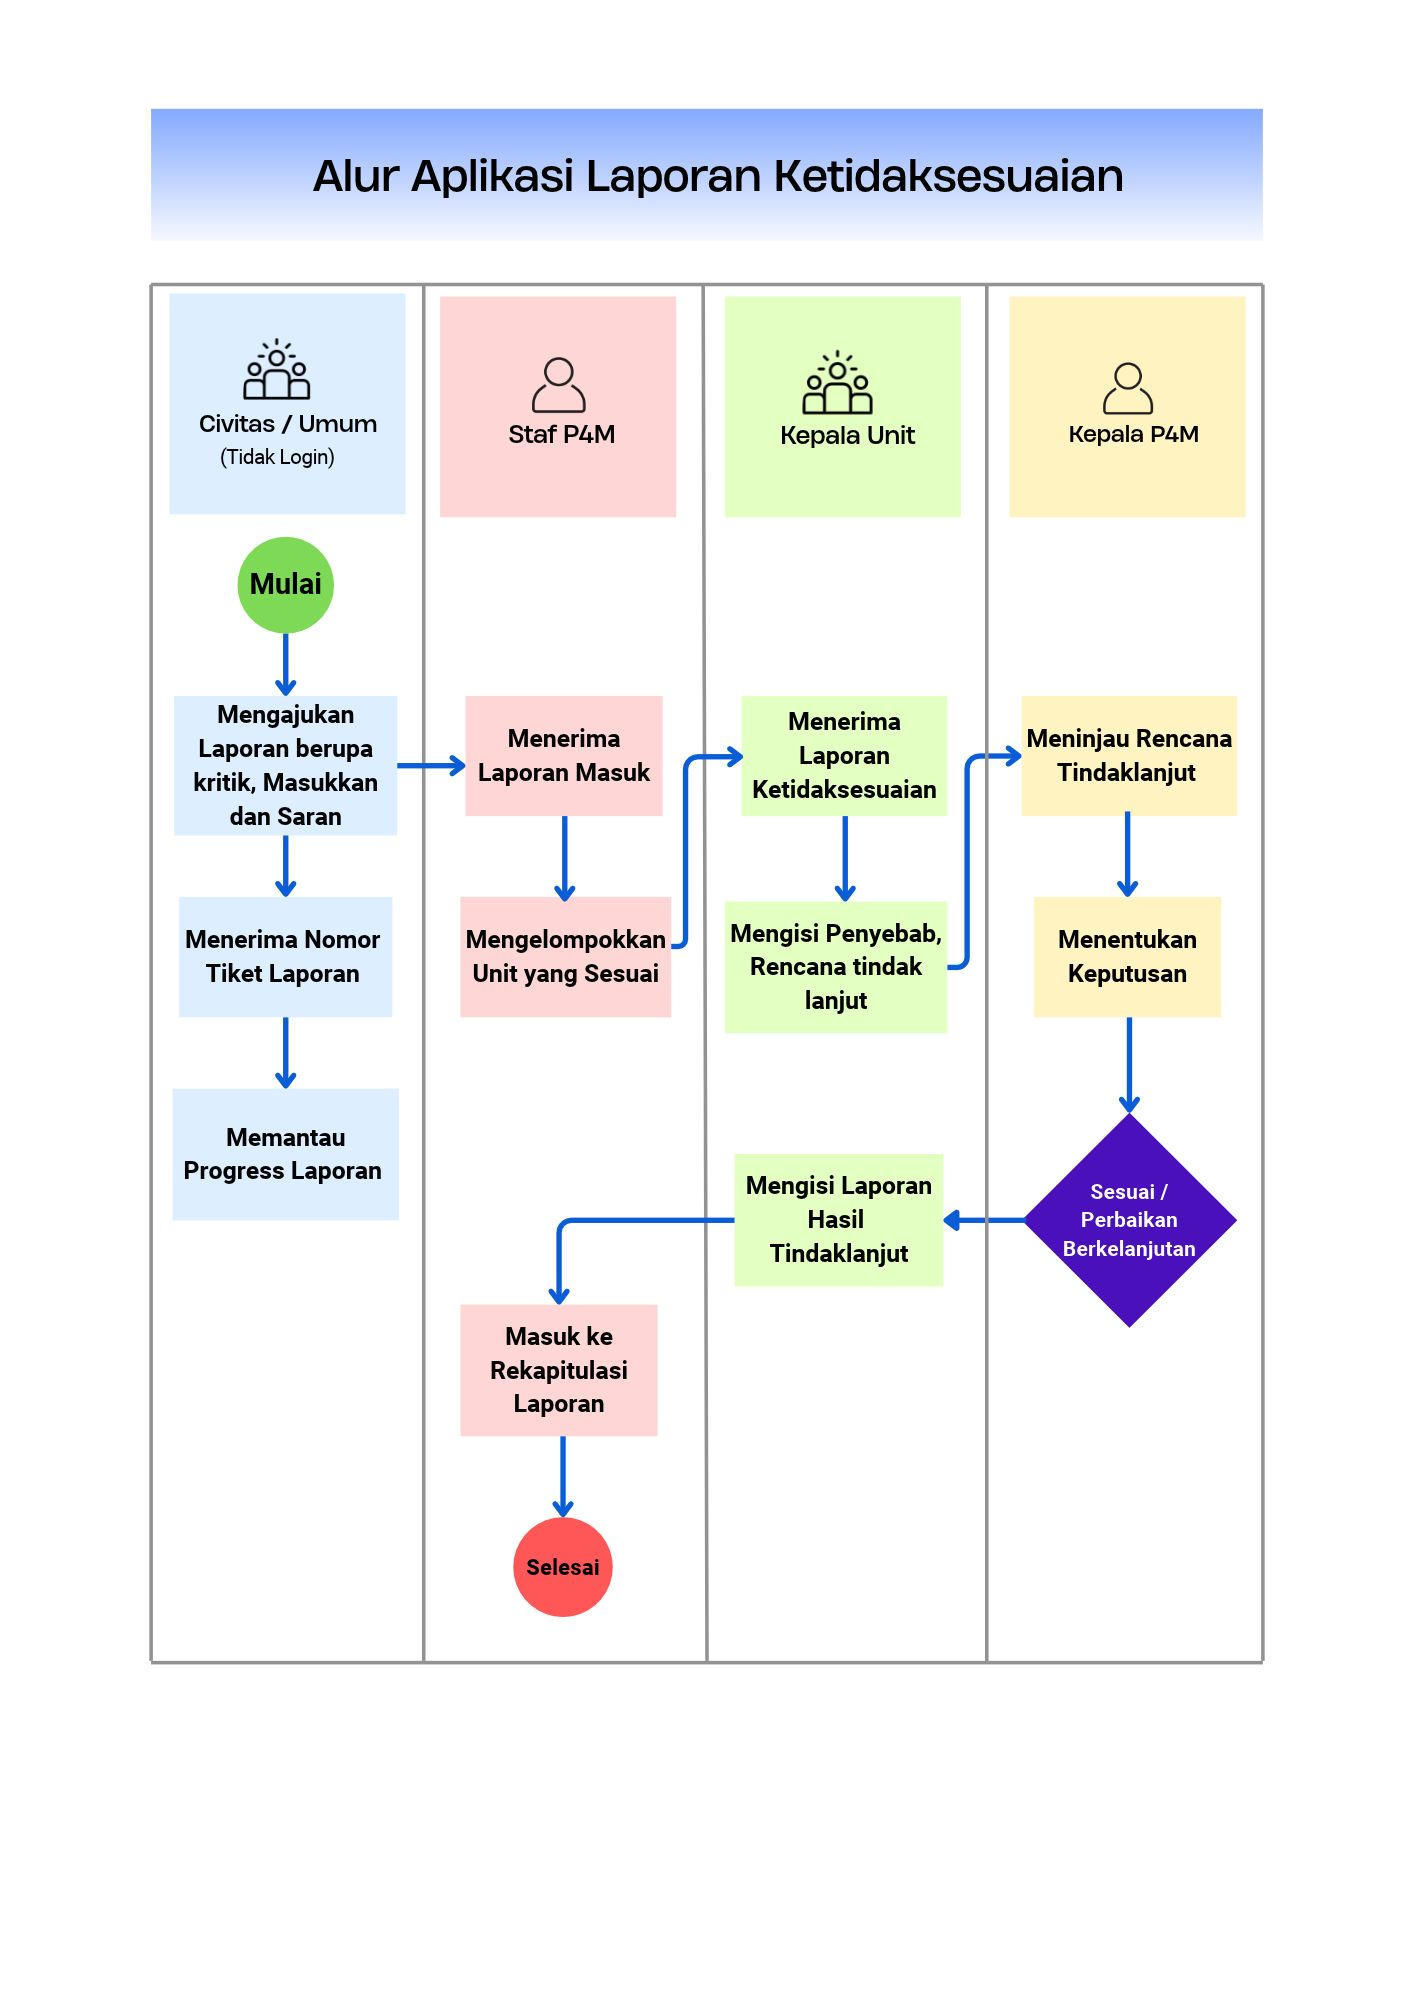
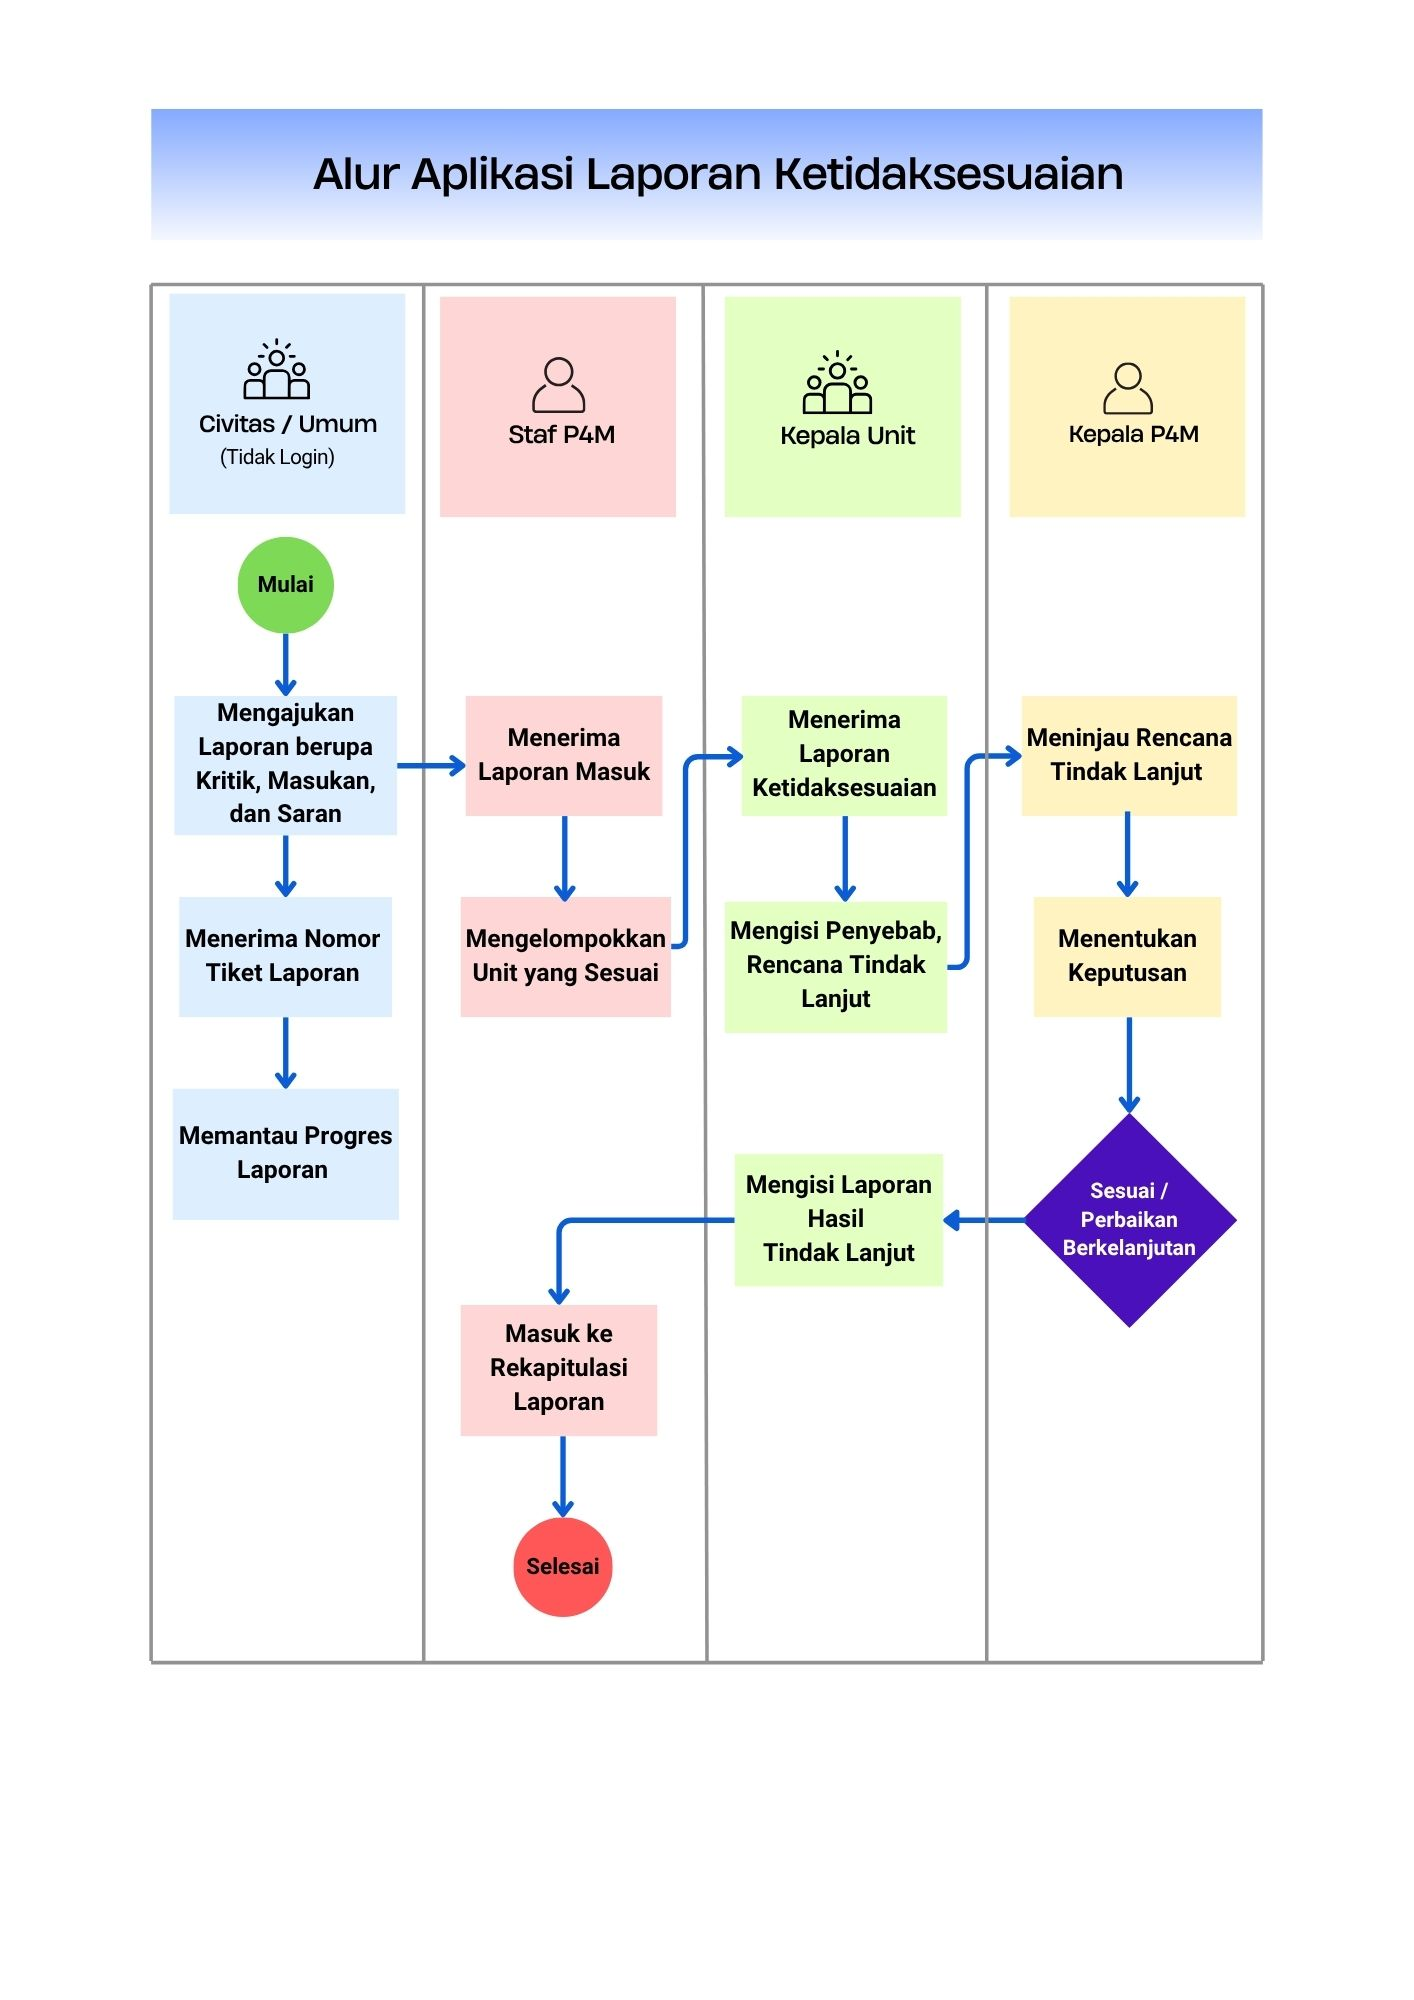
civitas, logika kata2 pda status sesuai, & fix ekspor pdf

diff --git a/frontend/lib/exportPdf.ts b/frontend/lib/exportPdf.ts
@@ -132,7 +132,7 @@ const BASE_CSS = `
   .header-borang .logo { display:block; flex:0 0 80px; width:80px; height:80px; max-width:80px; object-fit:contain; }
   .header-borang .title-container { flex:1; min-width:0; text-align:center; font-weight:700;}
   .header-borang .doc-number { font-weight:700; white-space:nowrap; }
-  .header-borang .doc-title-text { text-decoration:underline; }
+  .header-borang .doc-title-text { text-decoration:underline; line-height: 1.5; }
   .header-borang .doc-date { font-size:9pt; font-weight:700; color:#000; margin-top:4px; }
   .header-borang .doc-subtitle { font-size:8.5pt; color:#555; margin-top:3px; line-height:1.4; }
 
@@ -165,9 +165,9 @@ const BASE_CSS = `
   .close-btn:hover { background:#3a4d5e; }
 
   @media print {
-    body { padding:32px; padding-top:20px; }
-    @page { size:A4 landscape; margin:18mm; }
-    tr { page-break-inside:avoid; break-inside:avoid; }
+    body { padding:0 15px; margin:0; }
+    @page { size:A4 landscape; margin:15mm 16mm; }
+    tr { page-break-inside:auto; break-inside:auto; }
     .header-borang { page-break-inside:avoid; break-inside:avoid; }
     .footer, .ttd { page-break-inside:avoid; break-inside:avoid; }
     .close-btn { display:none !important; }
@@ -206,7 +206,6 @@ function renderHeaderBorang(subtitleInfo?: string) {
         <br />
         Tindakan Koreksi/Pencegahan
       </div>
-      <div class="doc-date">23 September 2020</div>
       ${subtitleInfo ? `<div class="doc-subtitle">${subtitleInfo}</div>` : ""}
     </div>
   </div>`;
@@ -420,7 +419,7 @@ export async function exportPDFProses(
   const jabatanPenandatanganProses = "Staff P4M";
   const tglCetakProses = fmtTglWaktu(new Date().toISOString());
 
-  // ✅ TTE format baru
+  // TTE format baru
   const qrTextProses = await buildQrTteText({
     penandatangan: jabatanPenandatanganProses,
     perihal: `${item.jenis_laporan ?? "Laporan"} — ${item.kode_laporan}`,
@@ -428,12 +427,9 @@ export async function exportPDFProses(
   });
   const qrDataUrlProses = await generateQrDataUrl(qrTextProses);
 
-  const hasilTindakLanjutPdf =
-  item.hasil_tindakan
-    ? item.hasil_tindakan
-    : item.status_boxing === "selesai"
-      ? `<em style="color:#9ca3af">Sudah sesuai, tidak ditindaklanjuti</em>`
-      : `<em style="color:#9ca3af">Belum ada hasil</em>`;
+  const hasilTindakLanjutPdf = item.hasil_tindakan?.trim()
+  ? item.hasil_tindakan
+  : `<em style="color:#9ca3af">Belum ada hasil</em>`;
 
   const html = `<!DOCTYPE html>
 <html lang="id"><head><meta charset="UTF-8"/>
@@ -548,12 +544,9 @@ export async function exportPDFRiwayatKepalaUnit(
   const jabatanPenandatangan = `Kepala Unit — ${namaUnit}`;
   void penandatangan;
   const isSelesai = item.status_boxing === "selesai";
-  const hasilTindakLanjutPdf =
-  item.hasil_tindakan
-    ? item.hasil_tindakan
-    : isSelesai
-      ? `<em style="color:#9ca3af">Sudah sesuai, tidak ditindaklanjuti</em>`
-      : `<em style="color:#9ca3af">Belum ada hasil</em>`;
+  const hasilTindakLanjutPdf = item.hasil_tindakan?.trim()
+  ? item.hasil_tindakan
+  : `<em style="color:#9ca3af">Belum ada hasil</em>`;
 
   const statusLabel = isSelesai
     ? "Selesai — Disetujui Staf P4M"

diff --git a/backend/controllers/civitasController.js b/backend/controllers/civitasController.js
@@ -167,34 +167,25 @@ function buildTahapProgres(laporan, ringkasan, detailUnit = []) {
   const semuaUnitSudahDireview =
     semuaUnitSudahMengisi && unitSudahDireview.length === totalUnitSeharusnya;
 
-  // 3. Filter Unit Sesuai vs Perbaikan Berkelanjutan
-  const unitSesuai = detailUnit.filter(
-    (u) => u.status_review === "tidak_ditindaklanjuti"
-  );
-  
-  const unitPerbaikan = detailUnit.filter(
-    (u) => u.status_review === "ditindaklanjuti"
-  );
-
-  // ⬇ VARIABEL INI HARUS DISEBUT DULU DI SINI SEBELUM DIPAKAI DI TAHAP 5!
-  const unitPerbaikanBelumHasil = unitPerbaikan
+  // 3. Cek laporan hasil pelaksanaan dari SELURUH unit
+  const unitBelumHasil = detailUnit
     .filter((u) => !Boolean(u.ada_pelaksanaan))
     .map((u) => u.unit_tujuan);
 
-  // Tahap 5 otomatis CENTANG HIJAU kalau semua unit perbaikan SUDAH KIRIM HASIL
+  // Tahap 5 selesai jika seluruh unit sudah ditinjau dan seluruh unit sudah mengirim laporan hasil pelaksanaan.
   const tahap5Selesai =
-    semuaUnitSudahDireview && unitPerbaikanBelumHasil.length === 0;
+    semuaUnitSudahDireview && unitBelumHasil.length === 0;
 
-  // Teks Deskripsi Tahap 5
   let deskripsiTahap5 = "";
+
   if (!semuaUnitSudahDireview) {
     deskripsiTahap5 = "Menunggu tinjauan Ka P4M untuk seluruh unit.";
-  } else if (unitSesuai.length === totalUnitSeharusnya) {
-    deskripsiTahap5 = "Tidak memerlukan tindakan lanjutan.";
-  } else if (unitPerbaikanBelumHasil.length > 0) {
-    deskripsiTahap5 = `Menunggu laporan hasil pelaksanaan dari: ${unitPerbaikanBelumHasil.join(", ")}.`;
+  } else if (unitBelumHasil.length > 0) {
+    deskripsiTahap5 =
+      `Menunggu laporan hasil pelaksanaan dari: ${unitBelumHasil.join(", ")}.`;
   } else {
-    deskripsiTahap5 = "Seluruh unit telah mengirimkan laporan hasil pelaksanaan.";
+    deskripsiTahap5 =
+      "Seluruh unit telah mengirimkan laporan hasil pelaksanaan.";
   }
 
   // Teks Deskripsi Tahap 6
@@ -202,7 +193,7 @@ function buildTahapProgres(laporan, ringkasan, detailUnit = []) {
   if (status === "selesai") {
     deskripsiTahap6 = "Laporan telah resmi diselesaikan dan ditutup oleh Staf P4M.";
   } else if (tahap5Selesai) {
-    deskripsiTahap6 = "Hasil pelaksanaan unit telah diterima. Menunggu verifikasi centang/silang akhir dari Staf P4M.";
+    deskripsiTahap6 = "Hasil pelaksanaan unit telah diterima. Menunggu verifikasi akhir dari Staf P4M.";
   } else {
     deskripsiTahap6 = "Menunggu penyelesaian seluruh tahapan unit.";
   }

diff --git a/frontend/components/kepala-unit/DiscrepancyTable.tsx b/frontend/components/kepala-unit/DiscrepancyTable.tsx
@@ -109,7 +109,7 @@ export default function DiscrepancyTable() {
       return;
     }
     if ((rencanaCount[id_boxing] || 0) === 0) {
-      alert("Minimal 1 rancangan tindak lanjut harus ditambahkan.");
+      alert("Minimal 1 rencana tindak lanjut harus ditambahkan.");
       return;
     }
     setConfirmId(id_boxing);
@@ -176,7 +176,7 @@ export default function DiscrepancyTable() {
       <ConfirmDialog
         open={confirmId !== null}
         title="Konfirmasi Kirim"
-        message="Yakin ingin mengirim ini ke Ka P4M? Penyebab dan semua Rancangan Tindak Lanjut akan diteruskan."
+        message="Yakin ingin mengirim ini ke Ka P4M? Penyebab dan semua Rencana Tindak Lanjut akan diteruskan."
         confirmLabel="Kirim"
         cancelLabel="Batal"
         loading={confirmId !== null && !!sending[confirmId]}
@@ -190,7 +190,7 @@ export default function DiscrepancyTable() {
           <div className="w-[12%] border-r-2 border-black p-3 text-[11px]">Tanggal Masuk</div>
           <div className="w-[12%] border-r-2 border-black p-3 text-[11px]">Tanggal Kejadian</div>
           <div className="w-[18%] border-r-2 border-black p-3 text-[11px]">Penyebab</div>
-          <div className="w-[18%] border-r-2 border-black p-3 text-[11px]">Rancangan Tindak Lanjut</div>
+          <div className="w-[18%] border-r-2 border-black p-3 text-[11px]">Rencana Tindak Lanjut</div>
           <div className="flex-1 p-3 text-[11px]">Aksi</div>
         </div>
 
@@ -262,7 +262,7 @@ export default function DiscrepancyTable() {
                   />
                 </div>
                 <div>
-                  <p className="text-[10px] font-bold text-gray-500 uppercase mb-1">Rancangan Tindak Lanjut</p>
+                  <p className="text-[10px] font-bold text-gray-500 uppercase mb-1">Rencana Tindak Lanjut</p>
                   <RencanaPanel
                     idBoxing={item.id_boxing}
                     onCountChange={handleCountChange}
@@ -356,7 +356,7 @@ export default function DiscrepancyTable() {
                   )}
                 </div>
 
-                {/* Kolom Rancangan */}
+                {/* Kolom Rencana */}
                 <div className="w-[18%] border-r-2 border-black p-3">
                   <RencanaPanel
                     idBoxing={item.id_boxing}

diff --git a/frontend/components/staff-p4m/tables/ProcessMonitorTable.tsx b/frontend/components/staff-p4m/tables/ProcessMonitorTable.tsx
@@ -855,12 +855,8 @@ export default function ProcessMonitorTable() {
                         className="border-r-2 border-black p-3 align-top"
                       >
                         <div className="border border-gray-300 p-2 min-h-16 text-[10px] leading-relaxed text-justify whitespace-pre-wrap break-words">
-                          {item.hasil_tindakan ? (
+                          {item.hasil_tindakan?.trim() ? (
                             item.hasil_tindakan
-                          ) : item.status_review === "tidak_ditindaklanjuti" ? (
-                            <span className="inline-block text-[9px] text-gray-400 italic bg-gray-50 px-1.5 py-0.5 rounded">
-                              Sudah sesuai, tidak ditindaklanjuti
-                            </span>
                           ) : (
                             <span className="text-[9px] text-gray-400 italic">
                               Belum ada hasil
@@ -1001,13 +997,8 @@ export default function ProcessMonitorTable() {
                             className="border-r-2 border-black p-3 align-top"
                           >
                             <div className="border border-gray-300 p-2 min-h-16 text-[10px] leading-relaxed text-justify whitespace-pre-wrap break-words">
-                              {item.hasil_tindakan ? (
+                              {item.hasil_tindakan?.trim() ? (
                                 item.hasil_tindakan
-                              ) : item.status_review ===
-                                "tidak_ditindaklanjuti" ? (
-                                <span className="inline-block text-[9px] text-gray-400 italic bg-gray-50 px-1.5 py-0.5 rounded">
-                                  Sudah sesuai, tidak ditindaklanjuti
-                                </span>
                               ) : (
                                 <span className="text-[9px] text-gray-400 italic">
                                   Belum ada hasil

diff --git a/frontend/components/ka-p4m/KaP4MHasilTable.tsx b/frontend/components/ka-p4m/KaP4MHasilTable.tsx
@@ -408,12 +408,12 @@ export default function KaP4MHasilTable() {
                           {/* Hasil Tindak Lanjut Unit — rata kiri-kanan */}
                           <td className={`border-r-2 border-black p-3 align-top ${isLastUnit ? "border-b-2" : "border-b"}`}>
                             <div className="border border-gray-400 min-h-16 p-2 text-[10px] leading-relaxed text-justify whitespace-pre-wrap break-words">
-                              {item.hasil_tindakan ? (
+                              {item.hasil_tindakan?.trim() ? (
                                 item.hasil_tindakan
-                              ) : item.approval_staf === "diterima" ? (
-                                <span className="text-gray-400 italic">Sudah sesuai, tidak ditindaklanjuti</span>
                               ) : (
-                                <span className="text-gray-400 italic">Belum diisi Kepala Unit</span>
+                                <span className="text-gray-400 italic">
+                                  Belum diisi Kepala Unit
+                                </span>
                               )}
                             </div>
                             {item.tanggal_pelaksanaan && (

diff --git a/frontend/components/kepala-unit/RencanaPanel.tsx b/frontend/components/kepala-unit/RencanaPanel.tsx
@@ -4,6 +4,8 @@ import { useState, useEffect, useCallback, useRef } from "react";
 import { kepalaUnitApi } from "@/lib/api";
 import { Plus, Pencil, Trash2, Calendar } from "lucide-react";
 
+const todayStr = () => new Date().toISOString().split("T")[0];
+
 export interface RencanaItem {
   id: number;
   teks: string;
@@ -86,6 +88,10 @@ export default function RencanaPanel({
     }
     if (!formTanggal) {
       setFormErr("Tanggal harus diisi.");
+      return false;
+    }
+    if (formTanggal < todayStr()) {
+      setFormErr("Tanggal tidak boleh lewat.");
       return false;
     }
     return true;
@@ -194,6 +200,7 @@ export default function RencanaPanel({
             type="date"
             className="w-full border border-black p-1.5 text-[10px] outline-none focus:border-blue-polibatam rounded"
             value={formTanggal}
+            min={todayStr()}
             onChange={(e) => setFormTanggal(e.target.value)}
           />
 

diff --git a/backend/controllers/kepalaUnitController.js b/backend/controllers/kepalaUnitController.js
@@ -481,6 +481,13 @@ async function addRencana(req, res) {
     });
   }
 
+  if (tgl < today) {
+    return res.status(400).json({
+      success: false,
+      message: "Tanggal rencana tidak boleh tanggal yang sudah lewat.",
+    });
+  }
+
   try {
     const kepala = await getKepalaInfo(req);
     if (!kepala) {
@@ -561,6 +568,13 @@ async function updateRencana(req, res) {
     return res.status(400).json({
       success: false,
       message: "Tanggal tidak valid.",
+    });
+  }
+
+  if (tgl < today) {
+    return res.status(400).json({
+      success: false,
+      message: "Tanggal rencana tidak boleh tanggal yang sudah lewat.",
     });
   }
 

diff --git a/frontend/lib/pdfBorang.ts b/frontend/lib/pdfBorang.ts
@@ -151,7 +151,6 @@ export function cetakBorangRegistrasi(data: BorangRegistrasiData): void {
       </td>
       <td style="padding:6px 8px; vertical-align:middle;">
         <p class="nomor-borang">No.BO.34.3.1-V6</p>
-        <p class="small" style="margin-top:4px;">23 September 2020</p>
         <p class="small" style="margin-top:8px; font-style:italic;">Dicetak via TUNTAS</p>
         <p class="small">${fmtTgl(new Date().toISOString())}</p>
       </td>

diff --git a/frontend/components/staff-p4m/UnitSearchSelect.tsx b/frontend/components/staff-p4m/UnitSearchSelect.tsx
@@ -57,7 +57,7 @@ export default function UnitSearchSelect() {
               </span>
             ))
           ) : (
-            <span className="text-gray-400 text-[11px]">pilih unit yang di tuju</span>
+            <span className="text-gray-400 text-[11px]">pilih unit yang dituju</span>
           )}
         </div>
         <ChevronDown size={14} className={`transition-transform ${isOpen ? "rotate-180" : ""}`} />

diff --git a/frontend/components/staff-p4m/tables/IncomingReportTable.tsx b/frontend/components/staff-p4m/tables/IncomingReportTable.tsx
@@ -164,7 +164,7 @@ function MultiSelectUnit({
               </span>
             ))
           ) : (
-            <span className="text-gray-400 text-[11px]">pilih unit yang di tuju</span>
+            <span className="text-gray-400 text-[11px]">pilih unit yang dituju</span>
           )}
         </div>
         <ChevronDown size={13} className={`ml-1 transition-transform ${open ? "rotate-180" : ""}`} />

diff --git a/frontend/components/FAQ.tsx b/frontend/components/FAQ.tsx
@@ -101,7 +101,7 @@ export default function FAQSection() {
             </h3>
 
             <p className="mt-6 text-blue-100 leading-relaxed">
-              Sampaikan kritik, saran, dan ketidaksesuaian dengan mudah,
+              Sampaikan masukan, kritik, dan pengaduan dengan mudah,
               cepat, dan transparan tanpa perlu login.
             </p>
 
